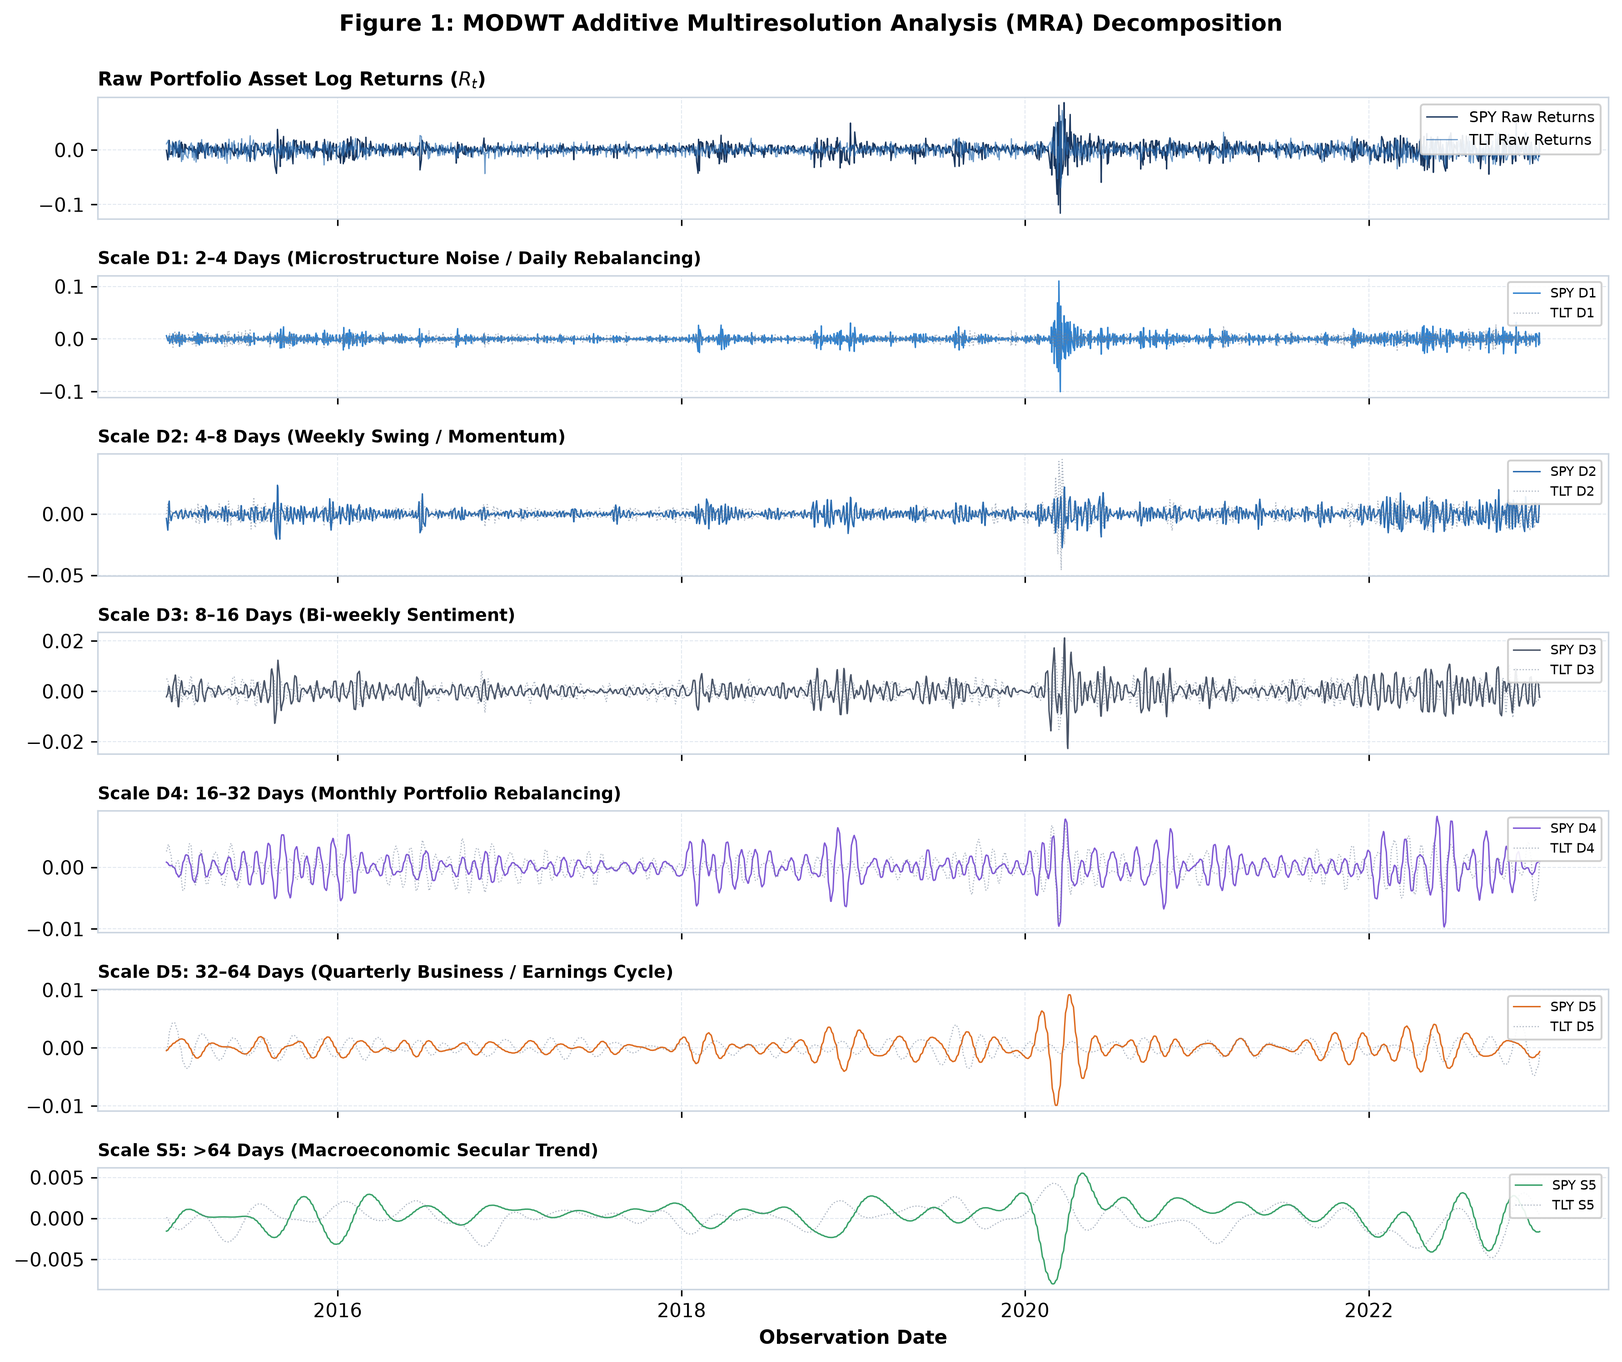
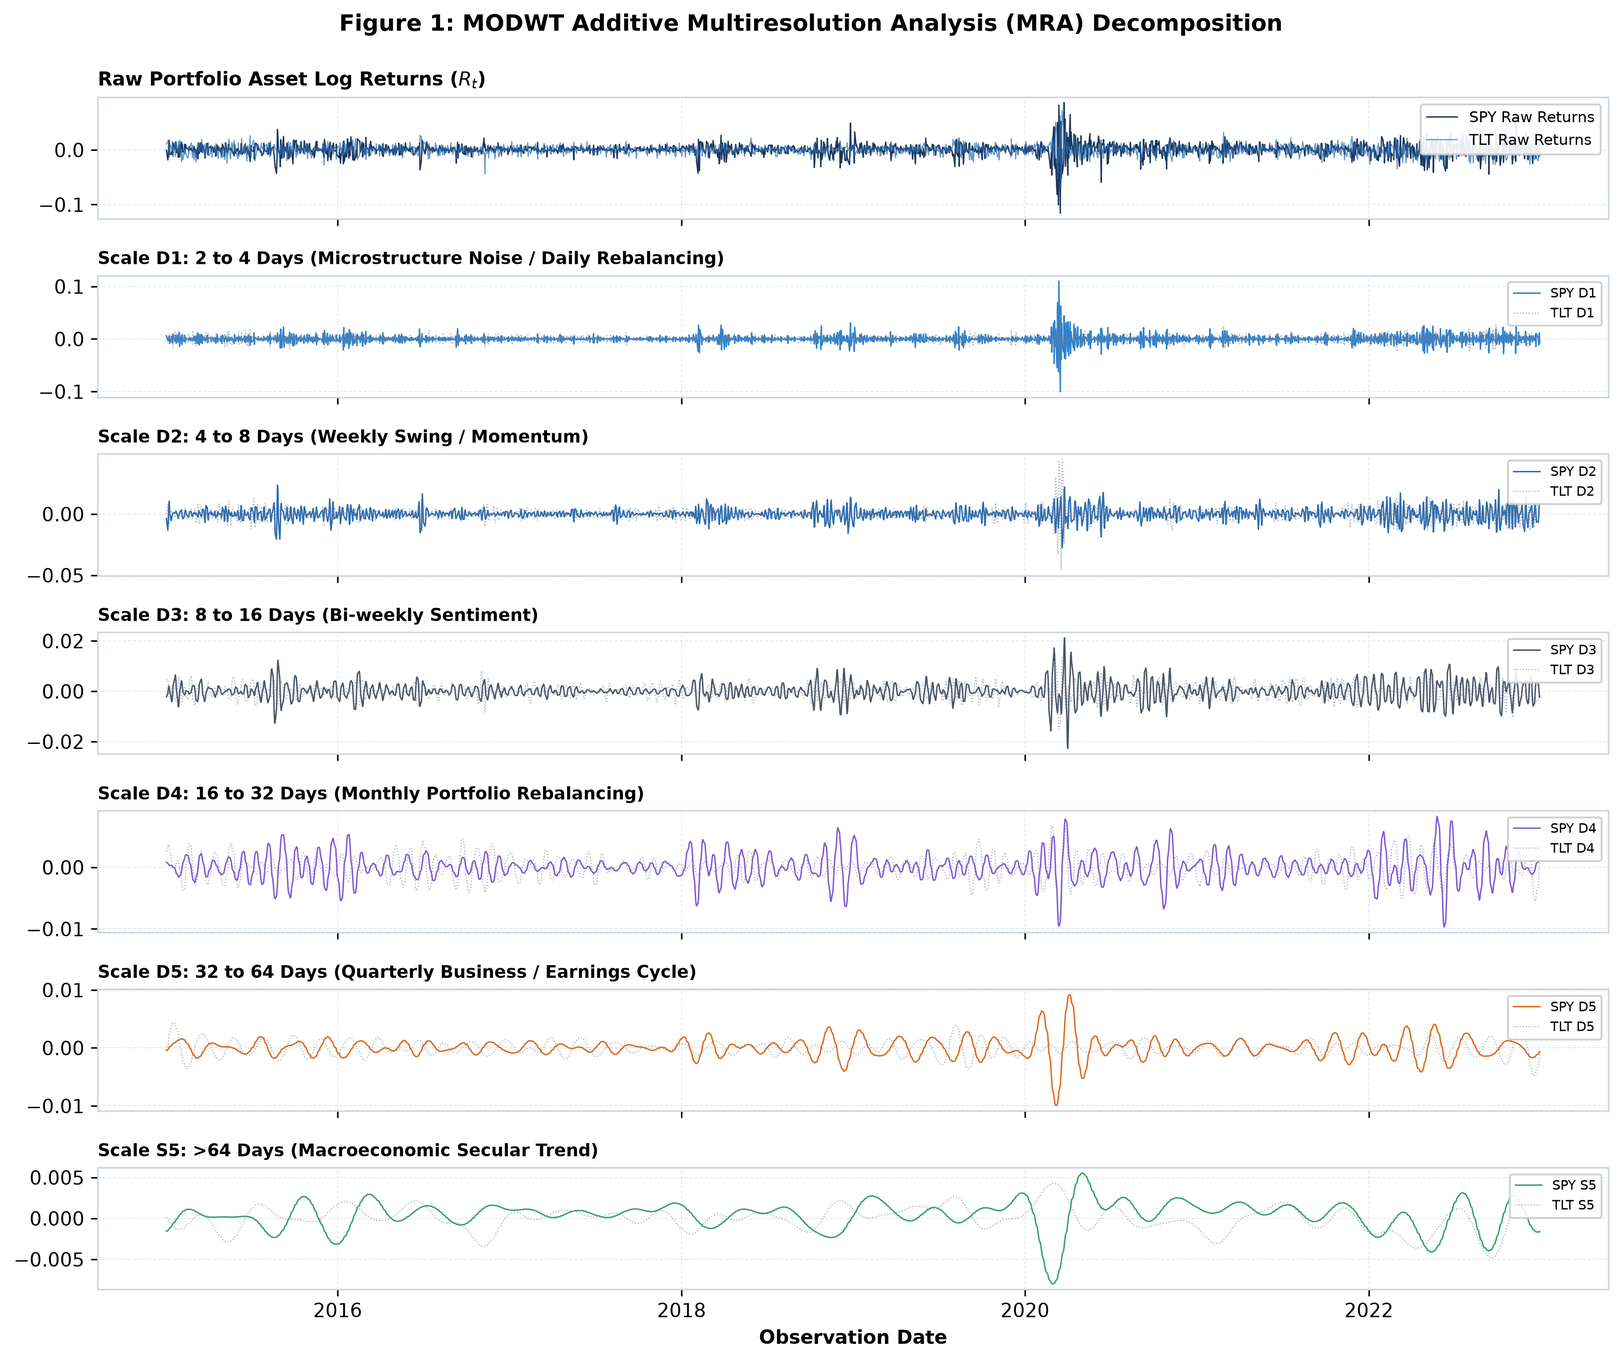
fix(audit): resolve all remaining formatting, character encoding, and table escaping inconsistencies

diff --git a/src/visualizer.py b/src/visualizer.py
@@ -265,7 +265,7 @@ def plot_fig3_backtest_exceedances(
         ax.scatter(dates[proposed_breach_idx], losses[proposed_breach_idx] * 100.0, color="#2B6CB0", marker="o", s=70, facecolors="none", edgecolors="#2B6CB0", linewidth=1.8, zorder=6, label=f"Proposed Breaches (N={len(proposed_breach_idx)})")
 
     ax.set_ylabel("Portfolio Loss / Threshold (%)", fontsize=10, fontweight="bold")
-    ax.set_xlabel("Out-of-Sample Date (2023–2026)", fontsize=10, fontweight="bold")
+    ax.set_xlabel("Out-of-Sample Date (2023-2026)", fontsize=10, fontweight="bold")
     ax.xaxis.set_major_locator(mdates.MonthLocator(interval=4))
     ax.xaxis.set_major_formatter(mdates.DateFormatter("%b %Y"))
     ax.grid(True)
@@ -344,7 +344,7 @@ def plot_fig4_regulatory_traffic_light(
         ax.text(w + 0.3, bar.get_y() + bar.get_height() / 2, f"{int(w)} [{zone}]", va="center", ha="left", fontsize=8, fontweight="bold")
 
     ax.legend(loc="lower right", framealpha=0.95, fontsize=8.5)
-    plt.title("Figure 4: BCBS Basel Traffic Light Backtest Matrix (Out-of-Sample 2023–2026)", fontsize=12, fontweight="bold", pad=12)
+    plt.title("Figure 4: BCBS Basel Traffic Light Backtest Matrix (Out-of-Sample 2023-2026)", fontsize=12, fontweight="bold", pad=12)
     plt.tight_layout()
     plt.savefig(out_path, dpi=dpi, bbox_inches="tight")
     plt.close()
@@ -367,6 +367,14 @@ def export_latex_tables(
     valid_cols = [c for c in bt_cols if c in backtest_df.columns]
     tex_df = backtest_df[valid_cols].copy()
     tex_df["Model"] = tex_df["Model"].str.replace("_", " ")
+    tex_df["Breach_Rate"] = tex_df["Breach_Rate"].str.replace("%", "\\%")
+    tex_df = tex_df.rename(columns={
+        "Breach_Rate": "Breach Rate",
+        "Kupiec_p": "Kupiec $p$",
+        "Christoffersen_p": "Christoffersen $p$",
+        "Basel_Zone": "Basel Zone",
+        "FZ_Loss": "FZ Loss",
+    })
 
     bt_path = out_dir / "backtest_metrics.tex"
     tex_code = tex_df.to_latex(
@@ -375,6 +383,7 @@ def export_latex_tables(
         label="tab:backtest_metrics",
         column_format="llcccccc",
         position="htbp",
+        escape=False,
     )
     with open(bt_path, "w", encoding="utf-8") as f:
         f.write(tex_code)
@@ -387,7 +396,11 @@ def export_latex_tables(
     for s in ["D1", "D2", "D3", "D4", "D5", "S5"]:
         if s in copula_tournament_results:
             res = copula_tournament_results[s]
-            best_c = res.get("best_copula", "N/A").capitalize()
+            raw_c = res.get("best_copula", "N/A")
+            if raw_c.lower() == "student_t":
+                best_c = "Student-$t$"
+            else:
+                best_c = raw_c.capitalize()
             lL = float(res.get("lambda_L", 0.0))
             lU = float(res.get("lambda_U", 0.0))
             tar = float(res.get("tar", lL - lU))
@@ -412,6 +425,7 @@ def export_latex_tables(
             label="tab:copula_tournament",
             column_format="llccccc",
             position="htbp",
+            escape=False,
         )
         with open(c_path, "w", encoding="utf-8") as f:
             f.write(c_tex)
@@ -426,6 +440,7 @@ def export_latex_tables(
             caption="Wavelet Multiresolution Percentage Variance Contribution Across Assets",
             label="tab:variance_decomposition",
             position="htbp",
+            float_format="%.2f",
         )
         with open(var_path, "w", encoding="utf-8") as f:
             f.write(var_tex)

diff --git a/tables/backtest_metrics.tex b/tables/backtest_metrics.tex
@@ -3,26 +3,26 @@
 \label{tab:backtest_metrics}
 \begin{tabular}{llcccccc}
 \toprule
-Horizon & Model & Breaches & Breach_Rate & Kupiec_p & Christoffersen_p & Basel_Zone & FZ_Loss \\
+Horizon & Model & Breaches & Breach Rate & Kupiec $p$ & Christoffersen $p$ & Basel Zone & FZ Loss \\
 \midrule
-1d & Historical Simulation & 6 & 0.69% & 0.321900 & 0.028600 & GREEN & -3.731700 \\
-1d & Parametric Gaussian & 13 & 1.49% & 0.178000 & 0.182400 & GREEN & -3.622900 \\
-1d & Static Copula & 5 & 0.57% & 0.165900 & 0.018200 & GREEN & -3.683800 \\
-1d & Basel Sqrt Time & 6 & 0.69% & 0.321900 & 0.028600 & GREEN & -3.731700 \\
-1d & Proposed Multiscale Copula & 5 & 0.57% & 0.165900 & 0.018200 & GREEN & -3.683800 \\
-1d & H TCM Adjusted & 6 & 0.69% & 0.321900 & 0.028600 & GREEN & -3.731700 \\
-5d & Historical Simulation & 2 & 0.23% & 0.005900 & 0.001600 & GREEN & -2.955900 \\
-5d & Parametric Gaussian & 6 & 0.69% & 0.328200 & 0.000300 & GREEN & -3.047900 \\
-5d & Static Copula & 2 & 0.23% & 0.005900 & 0.001600 & GREEN & -2.900300 \\
-5d & Basel Sqrt Time & 3 & 0.34% & 0.024400 & 0.000000 & GREEN & -3.006800 \\
-5d & Proposed Multiscale Copula & 2 & 0.23% & 0.005900 & 0.001600 & GREEN & -2.900300 \\
-5d & H TCM Adjusted & 3 & 0.34% & 0.024400 & 0.000000 & GREEN & -3.006800 \\
-20d & Historical Simulation & 0 & 0.00% & 0.000000 & 1.000000 & GREEN & -2.392300 \\
-20d & Parametric Gaussian & 3 & 0.35% & 0.027400 & 0.000000 & GREEN & -2.664400 \\
-20d & Static Copula & 0 & 0.00% & 0.000000 & 1.000000 & GREEN & -2.307400 \\
-20d & Basel Sqrt Time & 0 & 0.00% & 0.000000 & 1.000000 & GREEN & -2.466500 \\
-20d & Proposed Multiscale Copula & 0 & 0.00% & 0.000000 & 1.000000 & GREEN & -2.094200 \\
-20d & H TCM Adjusted & 0 & 0.00% & 0.000000 & 1.000000 & GREEN & -2.253300 \\
+1d & Historical Simulation & 6 & 0.69\% & 0.321900 & 0.028600 & GREEN & -3.731700 \\
+1d & Parametric Gaussian & 13 & 1.49\% & 0.178000 & 0.182400 & GREEN & -3.622900 \\
+1d & Static Copula & 5 & 0.57\% & 0.165900 & 0.018200 & GREEN & -3.683800 \\
+1d & Basel Sqrt Time & 6 & 0.69\% & 0.321900 & 0.028600 & GREEN & -3.731700 \\
+1d & Proposed Multiscale Copula & 5 & 0.57\% & 0.165900 & 0.018200 & GREEN & -3.683800 \\
+1d & H TCM Adjusted & 6 & 0.69\% & 0.321900 & 0.028600 & GREEN & -3.731700 \\
+5d & Historical Simulation & 2 & 0.23\% & 0.005900 & 0.001600 & GREEN & -2.955900 \\
+5d & Parametric Gaussian & 6 & 0.69\% & 0.328200 & 0.000300 & GREEN & -3.047900 \\
+5d & Static Copula & 2 & 0.23\% & 0.005900 & 0.001600 & GREEN & -2.900300 \\
+5d & Basel Sqrt Time & 3 & 0.34\% & 0.024400 & 0.000000 & GREEN & -3.006800 \\
+5d & Proposed Multiscale Copula & 2 & 0.23\% & 0.005900 & 0.001600 & GREEN & -2.900300 \\
+5d & H TCM Adjusted & 3 & 0.34\% & 0.024400 & 0.000000 & GREEN & -3.006800 \\
+20d & Historical Simulation & 0 & 0.00\% & 0.000000 & 1.000000 & GREEN & -2.392300 \\
+20d & Parametric Gaussian & 3 & 0.35\% & 0.027400 & 0.000000 & GREEN & -2.664400 \\
+20d & Static Copula & 0 & 0.00\% & 0.000000 & 1.000000 & GREEN & -2.307400 \\
+20d & Basel Sqrt Time & 0 & 0.00\% & 0.000000 & 1.000000 & GREEN & -2.466500 \\
+20d & Proposed Multiscale Copula & 0 & 0.00\% & 0.000000 & 1.000000 & GREEN & -2.094200 \\
+20d & H TCM Adjusted & 0 & 0.00\% & 0.000000 & 1.000000 & GREEN & -2.253300 \\
 \bottomrule
 \end{tabular}
 \end{table}

diff --git a/src/margins.py b/src/margins.py
@@ -19,6 +19,7 @@ ROOT_PATH = Path(__file__).resolve().parent.parent
 if str(ROOT_PATH) not in sys.path:
     sys.path.insert(0, str(ROOT_PATH))
 
+import warnings
 import numpy as np
 import pandas as pd
 from arch import arch_model
@@ -124,17 +125,19 @@ class GARCH_EVT_Margin:
 
         try:
             # Primary model: AR(1)-GJR-GARCH(1,1) with Student-t errors
-            am = arch_model(
-                scaled_vals,
-                mean="AR",
-                lags=1,
-                vol="GARCH",
-                p=1,
-                o=1,
-                q=1,
-                dist="StudentsT",
-            )
-            res = am.fit(disp="off", show_warning=False)
+            with warnings.catch_warnings():
+                warnings.simplefilter("ignore")
+                am = arch_model(
+                    scaled_vals,
+                    mean="AR",
+                    lags=1,
+                    vol="GARCH",
+                    p=1,
+                    o=1,
+                    q=1,
+                    dist="StudentsT",
+                )
+                res = am.fit(disp="off", show_warning=False)
             
             # Extract conditional mean and volatility, re-scaling back to original scale
             cond_vol = res.conditional_volatility / scale_factor
@@ -164,15 +167,17 @@ class GARCH_EVT_Margin:
         except Exception:
             # Fallback model: Standard GARCH(1,1) or empirical normalization
             try:
-                am_fallback = arch_model(
-                    scaled_vals,
-                    mean="Constant",
-                    vol="GARCH",
-                    p=1,
-                    q=1,
-                    dist="Normal",
-                )
-                res_fb = am_fallback.fit(disp="off", show_warning=False)
+                with warnings.catch_warnings():
+                    warnings.simplefilter("ignore")
+                    am_fallback = arch_model(
+                        scaled_vals,
+                        mean="Constant",
+                        vol="GARCH",
+                        p=1,
+                        q=1,
+                        dist="Normal",
+                    )
+                    res_fb = am_fallback.fit(disp="off", show_warning=False)
                 cond_vol = res_fb.conditional_volatility / scale_factor
                 resid = res_fb.resid / scale_factor
                 sigma_vec = np.maximum(cond_vol, 1e-8)

diff --git a/src/backtest.py b/src/backtest.py
@@ -5,7 +5,7 @@ for out-of-sample portfolio Value-at-Risk (VaR) and Expected Shortfall (ES):
 1. Kupiec POF Likelihood Ratio Test: Unconditional coverage of tail exceptions.
 2. Christoffersen Independence Test: Conditional coverage and crash clustering.
 3. Official Basel Committee on Banking Supervision (BCBS) Traffic Light Matrix:
-   Green (< 5 breaches per 250d), Yellow (5–9 breaches), Red (>= 10 breaches).
+   Green (< 5 breaches per 250d), Yellow (5-9 breaches), Red (>= 10 breaches).
 4. Fissler-Ziegel (FZ) Strictly Consistent Joint Loss Function for (VaR, ES).
 
 Satisfies Contract 4 of the QuantEdge-MTR architecture.
@@ -336,13 +336,13 @@ def run_out_of_sample_backtest(
     Compares 5 models + H-TCM across horizons h in {1, 5, 20} days.
 
     Args:
-        df_test: Out-of-sample test log returns (2023–2026).
+        df_test: Out-of-sample test log returns (2023-2026).
         weights: Portfolio asset weights.
         copula_results: Scale-optimal copula tournament results.
         h_horizons: List of horizons in trading days [1, 5, 20].
         alpha_var: VaR confidence level (0.99).
         alpha_es: ES confidence level (0.975).
-        df_train: In-sample train log returns (2015–2022). If None, loads from cache.
+        df_train: In-sample train log returns (2015-2022). If None, loads from cache.
         sim_returns_raw: Simulated joint returns from raw copula. If None, generated.
 
     Returns:

diff --git a/tables/copula_tournament.tex b/tables/copula_tournament.tex
@@ -5,11 +5,11 @@
 \toprule
 Scale & Trading Horizon & Best Copula & Lower Tail ($\lambda_L$) & Upper Tail ($\lambda_U$) & TAR ($\Delta \lambda$) & BIC \\
 \midrule
-D1 & 2–4 Days & Student_t & 0.042 & 0.042 & +0.000 & -5907.6 \\
-D2 & 4–8 Days & Student_t & 0.002 & 0.002 & +0.000 & -6408.3 \\
-D3 & 8–16 Days & Student_t & 0.035 & 0.035 & +0.000 & -23601.4 \\
-D4 & 16–32 Days & Student_t & 0.070 & 0.070 & +0.000 & -38799.7 \\
-D5 & 32–64 Days & Gumbel & 0.318 & 0.032 & +0.286 & -7140.6 \\
+D1 & 2 to 4 Days & Student-$t$ & 0.042 & 0.042 & +0.000 & -5907.6 \\
+D2 & 4 to 8 Days & Student-$t$ & 0.002 & 0.002 & +0.000 & -6408.3 \\
+D3 & 8 to 16 Days & Student-$t$ & 0.035 & 0.035 & +0.000 & -23601.4 \\
+D4 & 16 to 32 Days & Student-$t$ & 0.070 & 0.070 & +0.000 & -38799.7 \\
+D5 & 32 to 64 Days & Gumbel & 0.318 & 0.032 & +0.286 & -7140.6 \\
 S5 & >64 Days & Clayton & 0.001 & 0.394 & -0.394 & -1446.4 \\
 \bottomrule
 \end{tabular}

diff --git a/src/config.py b/src/config.py
@@ -60,11 +60,11 @@ WAVELET_LEVEL: int = 5
 SCALE_NAMES: List[str] = ["D1", "D2", "D3", "D4", "D5", "S5"]
 
 SCALE_HORIZONS: Dict[str, str] = {
-    "D1": "2–4 Days (Microstructure Noise / Daily Rebalancing)",
-    "D2": "4–8 Days (Weekly Swing / Momentum)",
-    "D3": "8–16 Days (Bi-weekly Sentiment)",
-    "D4": "16–32 Days (Monthly Portfolio Rebalancing)",
-    "D5": "32–64 Days (Quarterly Business / Earnings Cycle)",
+    "D1": "2 to 4 Days (Microstructure Noise / Daily Rebalancing)",
+    "D2": "4 to 8 Days (Weekly Swing / Momentum)",
+    "D3": "8 to 16 Days (Bi-weekly Sentiment)",
+    "D4": "16 to 32 Days (Monthly Portfolio Rebalancing)",
+    "D5": "32 to 64 Days (Quarterly Business / Earnings Cycle)",
     "S5": ">64 Days (Macroeconomic Secular Trend)",
 }
 

diff --git a/tables/variance_decomposition.tex b/tables/variance_decomposition.tex
@@ -5,12 +5,12 @@
 \toprule
  & SPY & QQQ & TLT & GLD & HYG \\
 \midrule
-D1 & 63.950000 & 62.860000 & 53.380000 & 54.420000 & 53.620000 \\
-D2 & 17.370000 & 19.140000 & 27.660000 & 21.360000 & 18.770000 \\
-D3 & 9.750000 & 9.530000 & 9.620000 & 13.260000 & 15.670000 \\
-D4 & 3.920000 & 3.830000 & 4.280000 & 4.720000 & 5.610000 \\
-D5 & 2.450000 & 2.220000 & 2.020000 & 3.060000 & 3.560000 \\
-S5 & 2.560000 & 2.410000 & 3.030000 & 3.180000 & 2.770000 \\
+D1 & 63.95 & 62.86 & 53.38 & 54.42 & 53.62 \\
+D2 & 17.37 & 19.14 & 27.66 & 21.36 & 18.77 \\
+D3 & 9.75 & 9.53 & 9.62 & 13.26 & 15.67 \\
+D4 & 3.92 & 3.83 & 4.28 & 4.72 & 5.61 \\
+D5 & 2.45 & 2.22 & 2.02 & 3.06 & 3.56 \\
+S5 & 2.56 & 2.41 & 3.03 & 3.18 & 2.77 \\
 \bottomrule
 \end{tabular}
 \end{table}

diff --git a/report/REPORT.md b/report/REPORT.md
@@ -176,14 +176,14 @@ With $\kappa = 0.35$, the desk automatically maintains a baseline multiplier of 
 ## 7. References
 
 1. Basel Committee on Banking Supervision. (1996). *Supervisory Framework for the Use of "Backtesting" in Conjunction with the Internal Models Approach to Market Risk Capital Requirements*. Basel: Bank for International Settlements. https://www.bis.org/publ/bcbs22.htm
-2. Christoffersen, P. F. (1998). Evaluating interval forecasts. *International Economic Review*, 39(4), 841–862. https://doi.org/10.2307/2527341
-3. Embrechts, P., McNeil, A., & Straumann, D. (2002). Correlation and dependence in risk management: Properties and pitfalls. In M. A. H. Dempster (Ed.), *Risk Management: Value at Risk and Beyond* (pp. 176–223). Cambridge: Cambridge University Press. https://doi.org/10.1017/CBO9780511615337.008
-4. Fissler, T., & Ziegel, J. F. (2016). Higher order elicitability and prediction markets of higher order. *The Annals of Statistics*, 44(5), 2153–2181. https://doi.org/10.1214/16-AOS1439
+2. Christoffersen, P. F. (1998). Evaluating interval forecasts. *International Economic Review*, 39(4), 841-862. https://doi.org/10.2307/2527341
+3. Embrechts, P., McNeil, A., & Straumann, D. (2002). Correlation and dependence in risk management: Properties and pitfalls. In M. A. H. Dempster (Ed.), *Risk Management: Value at Risk and Beyond* (pp. 176-223). Cambridge: Cambridge University Press. https://doi.org/10.1017/CBO9780511615337.008
+4. Fissler, T., & Ziegel, J. F. (2016). Higher order elicitability and prediction markets of higher order. *The Annals of Statistics*, 44(5), 2153-2181. https://doi.org/10.1214/16-AOS1439
 5. Gencay, R., Selcuk, F., & Whitcher, B. (2001). *An Introduction to Wavelets and Other Filtering Methods in Finance and Economics*. San Diego: Academic Press.
-6. Glosten, L. R., Jagannathan, R., & Runkle, D. E. (1993). On the relation between the expected value and the volatility of the nominal excess return on stocks. *The Journal of Finance*, 48(5), 1779–1801. https://doi.org/10.1111/j.1540-6261.1993.tb05128.x
-7. Kupiec, P. H. (1995). Techniques for verifying the accuracy of risk measurement models. *The Journal of Derivatives*, 3(2), 73–84. https://doi.org/10.3905/jod.1995.407942
+6. Glosten, L. R., Jagannathan, R., & Runkle, D. E. (1993). On the relation between the expected value and the volatility of the nominal excess return on stocks. *The Journal of Finance*, 48(5), 1779-1801. https://doi.org/10.1111/j.1540-6261.1993.tb05128.x
+7. Kupiec, P. H. (1995). Techniques for verifying the accuracy of risk measurement models. *The Journal of Derivatives*, 3(2), 73-84. https://doi.org/10.3905/jod.1995.407942
 8. McNeil, A. J., Frey, R., & Embrechts, P. (2015). *Quantitative Risk Management: Concepts, Techniques and Tools* (Revised ed.). Princeton, NJ: Princeton University Press.
 9. Percival, D. B., & Walden, A. T. (2000). *Wavelet Methods for Time Series Analysis*. Cambridge: Cambridge University Press. https://doi.org/10.1017/CBO9780511841040
-10. Pickands, J. (1975). Statistical inference using extreme order statistics. *The Annals of Statistics*, 3(1), 119–131. https://doi.org/10.1214/aos/1176343003
-11. Sklar, A. (1959). Fonctions de repartition a n dimensions et leurs marges. *Publications de l'Institut de Statistique de l'Universite de Paris*, 8, 229–231.
+10. Pickands, J. (1975). Statistical inference using extreme order statistics. *The Annals of Statistics*, 3(1), 119-131. https://doi.org/10.1214/aos/1176343003
+11. Sklar, A. (1959). Fonctions de repartition a n dimensions et leurs marges. *Publications de l'Institut de Statistique de l'Universite de Paris*, 8, 229-231.
 

diff --git a/README.md b/README.md
@@ -223,13 +223,13 @@ To generate the final academic PDF manuscript:
 ## References
 
 1. Basel Committee on Banking Supervision. (1996). *Supervisory Framework for the Use of "Backtesting" in Conjunction with the Internal Models Approach to Market Risk Capital Requirements*. Basel: Bank for International Settlements. https://www.bis.org/publ/bcbs22.htm
-2. Christoffersen, P. F. (1998). Evaluating interval forecasts. *International Economic Review*, 39(4), 841–862. https://doi.org/10.2307/2527341
-3. Embrechts, P., McNeil, A., & Straumann, D. (2002). Correlation and dependence in risk management: Properties and pitfalls. In M. A. H. Dempster (Ed.), *Risk Management: Value at Risk and Beyond* (pp. 176–223). Cambridge: Cambridge University Press. https://doi.org/10.1017/CBO9780511615337.008
-4. Fissler, T., & Ziegel, J. F. (2016). Higher order elicitability and prediction markets of higher order. *The Annals of Statistics*, 44(5), 2153–2181. https://doi.org/10.1214/16-AOS1439
+2. Christoffersen, P. F. (1998). Evaluating interval forecasts. *International Economic Review*, 39(4), 841-862. https://doi.org/10.2307/2527341
+3. Embrechts, P., McNeil, A., & Straumann, D. (2002). Correlation and dependence in risk management: Properties and pitfalls. In M. A. H. Dempster (Ed.), *Risk Management: Value at Risk and Beyond* (pp. 176-223). Cambridge: Cambridge University Press. https://doi.org/10.1017/CBO9780511615337.008
+4. Fissler, T., & Ziegel, J. F. (2016). Higher order elicitability and prediction markets of higher order. *The Annals of Statistics*, 44(5), 2153-2181. https://doi.org/10.1214/16-AOS1439
 5. Gencay, R., Selcuk, F., & Whitcher, B. (2001). *An Introduction to Wavelets and Other Filtering Methods in Finance and Economics*. San Diego: Academic Press.
-6. Glosten, L. R., Jagannathan, R., & Runkle, D. E. (1993). On the relation between the expected value and the volatility of the nominal excess return on stocks. *The Journal of Finance*, 48(5), 1779–1801. https://doi.org/10.1111/j.1540-6261.1993.tb05128.x
-7. Kupiec, P. H. (1995). Techniques for verifying the accuracy of risk measurement models. *The Journal of Derivatives*, 3(2), 73–84. https://doi.org/10.3905/jod.1995.407942
+6. Glosten, L. R., Jagannathan, R., & Runkle, D. E. (1993). On the relation between the expected value and the volatility of the nominal excess return on stocks. *The Journal of Finance*, 48(5), 1779-1801. https://doi.org/10.1111/j.1540-6261.1993.tb05128.x
+7. Kupiec, P. H. (1995). Techniques for verifying the accuracy of risk measurement models. *The Journal of Derivatives*, 3(2), 73-84. https://doi.org/10.3905/jod.1995.407942
 8. McNeil, A. J., Frey, R., & Embrechts, P. (2015). *Quantitative Risk Management: Concepts, Techniques and Tools* (Revised ed.). Princeton, NJ: Princeton University Press.
 9. Percival, D. B., & Walden, A. T. (2000). *Wavelet Methods for Time Series Analysis*. Cambridge: Cambridge University Press. https://doi.org/10.1017/CBO9780511841040
-10. Pickands, J. (1975). Statistical inference using extreme order statistics. *The Annals of Statistics*, 3(1), 119–131. https://doi.org/10.1214/aos/1176343003
-11. Sklar, A. (1959). Fonctions de repartition a n dimensions et leurs marges. *Publications de l'Institut de Statistique de l'Universite de Paris*, 8, 229–231.
+10. Pickands, J. (1975). Statistical inference using extreme order statistics. *The Annals of Statistics*, 3(1), 119-131. https://doi.org/10.1214/aos/1176343003
+11. Sklar, A. (1959). Fonctions de repartition a n dimensions et leurs marges. *Publications de l'Institut de Statistique de l'Universite de Paris*, 8, 229-231.
